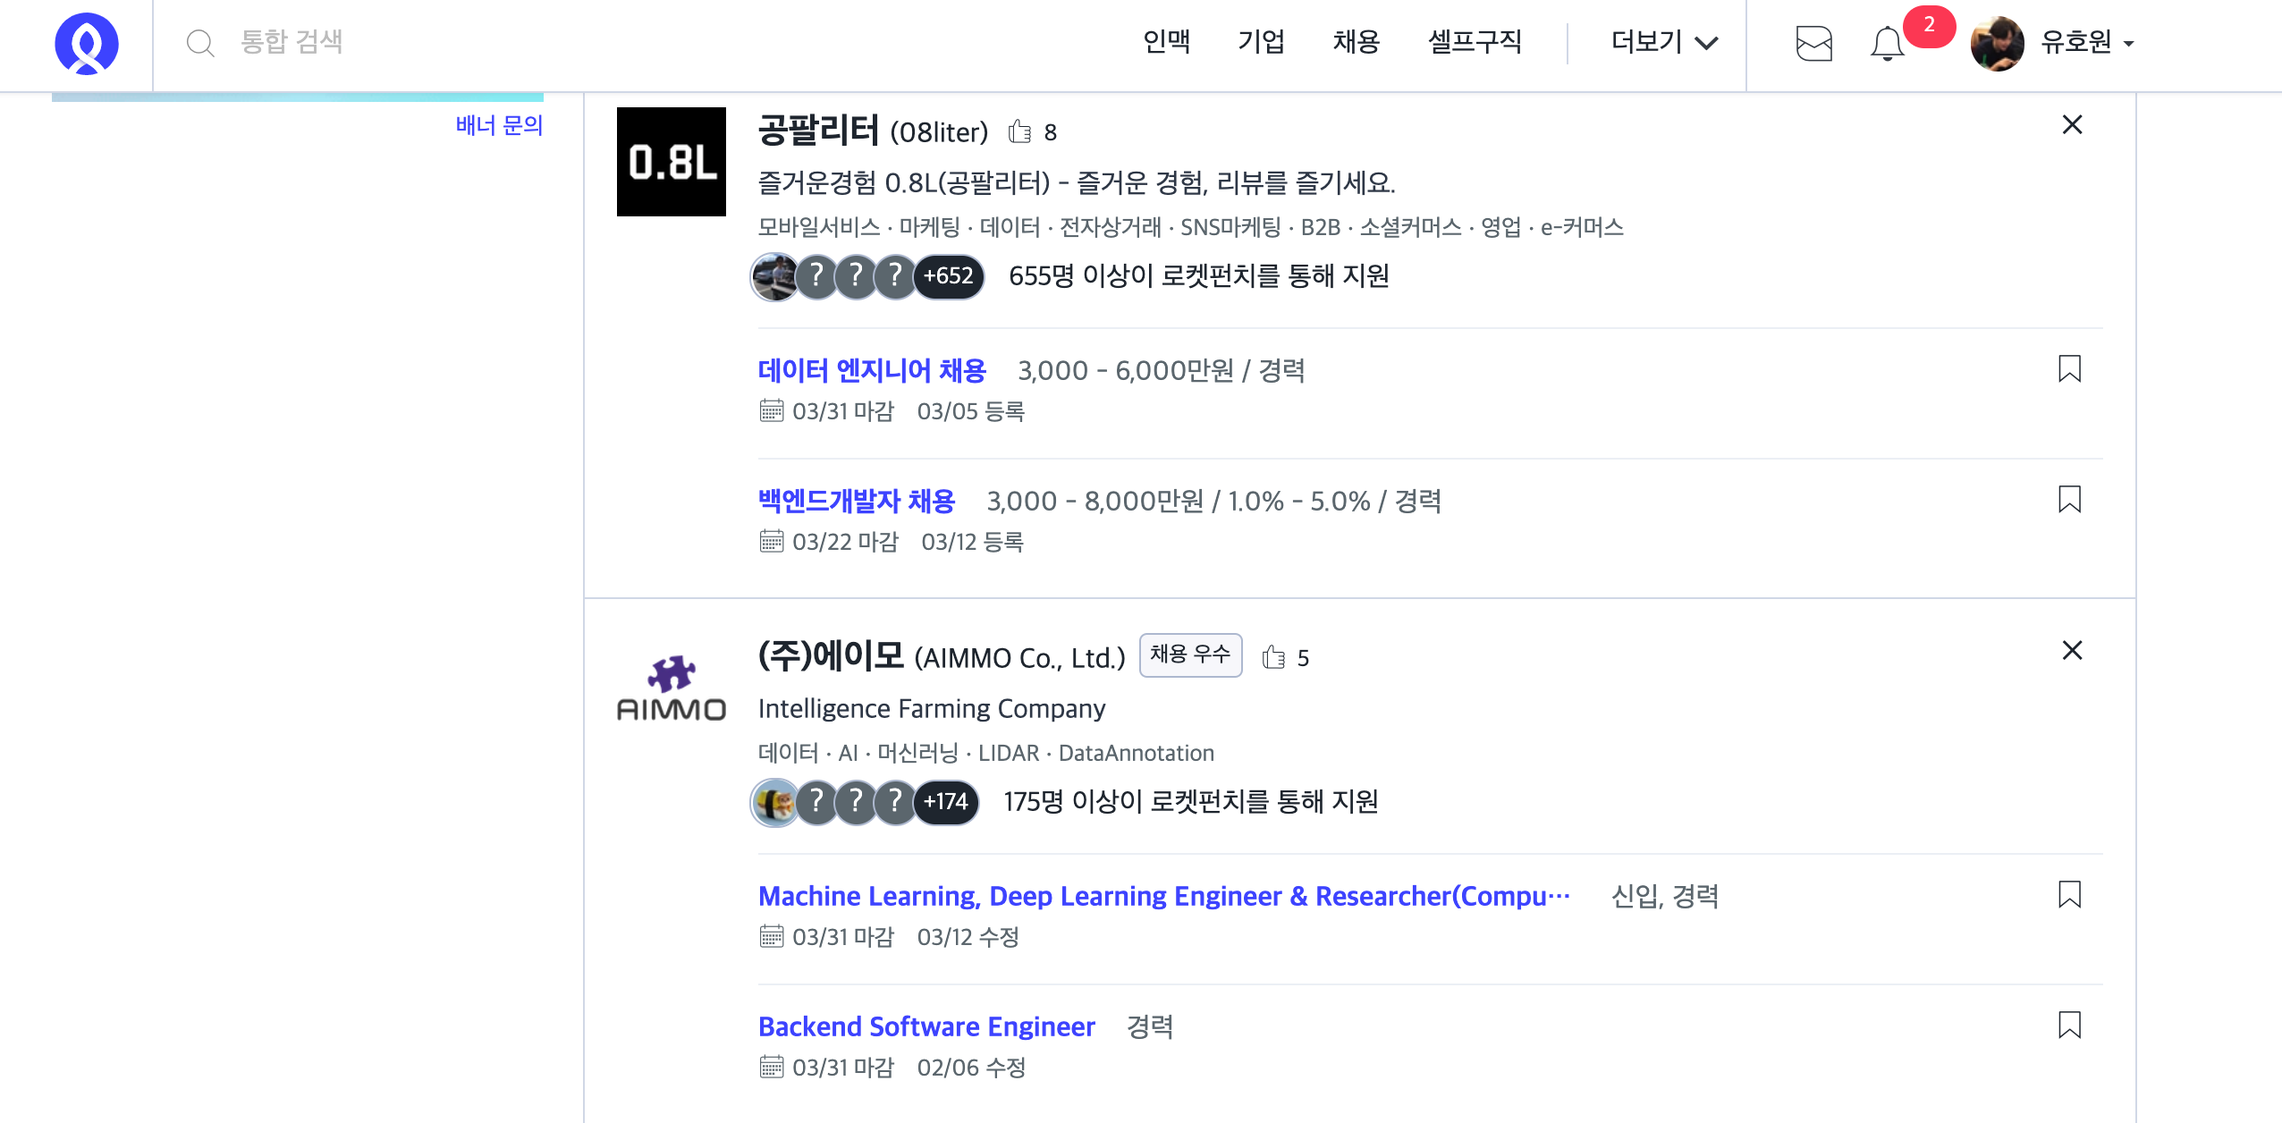
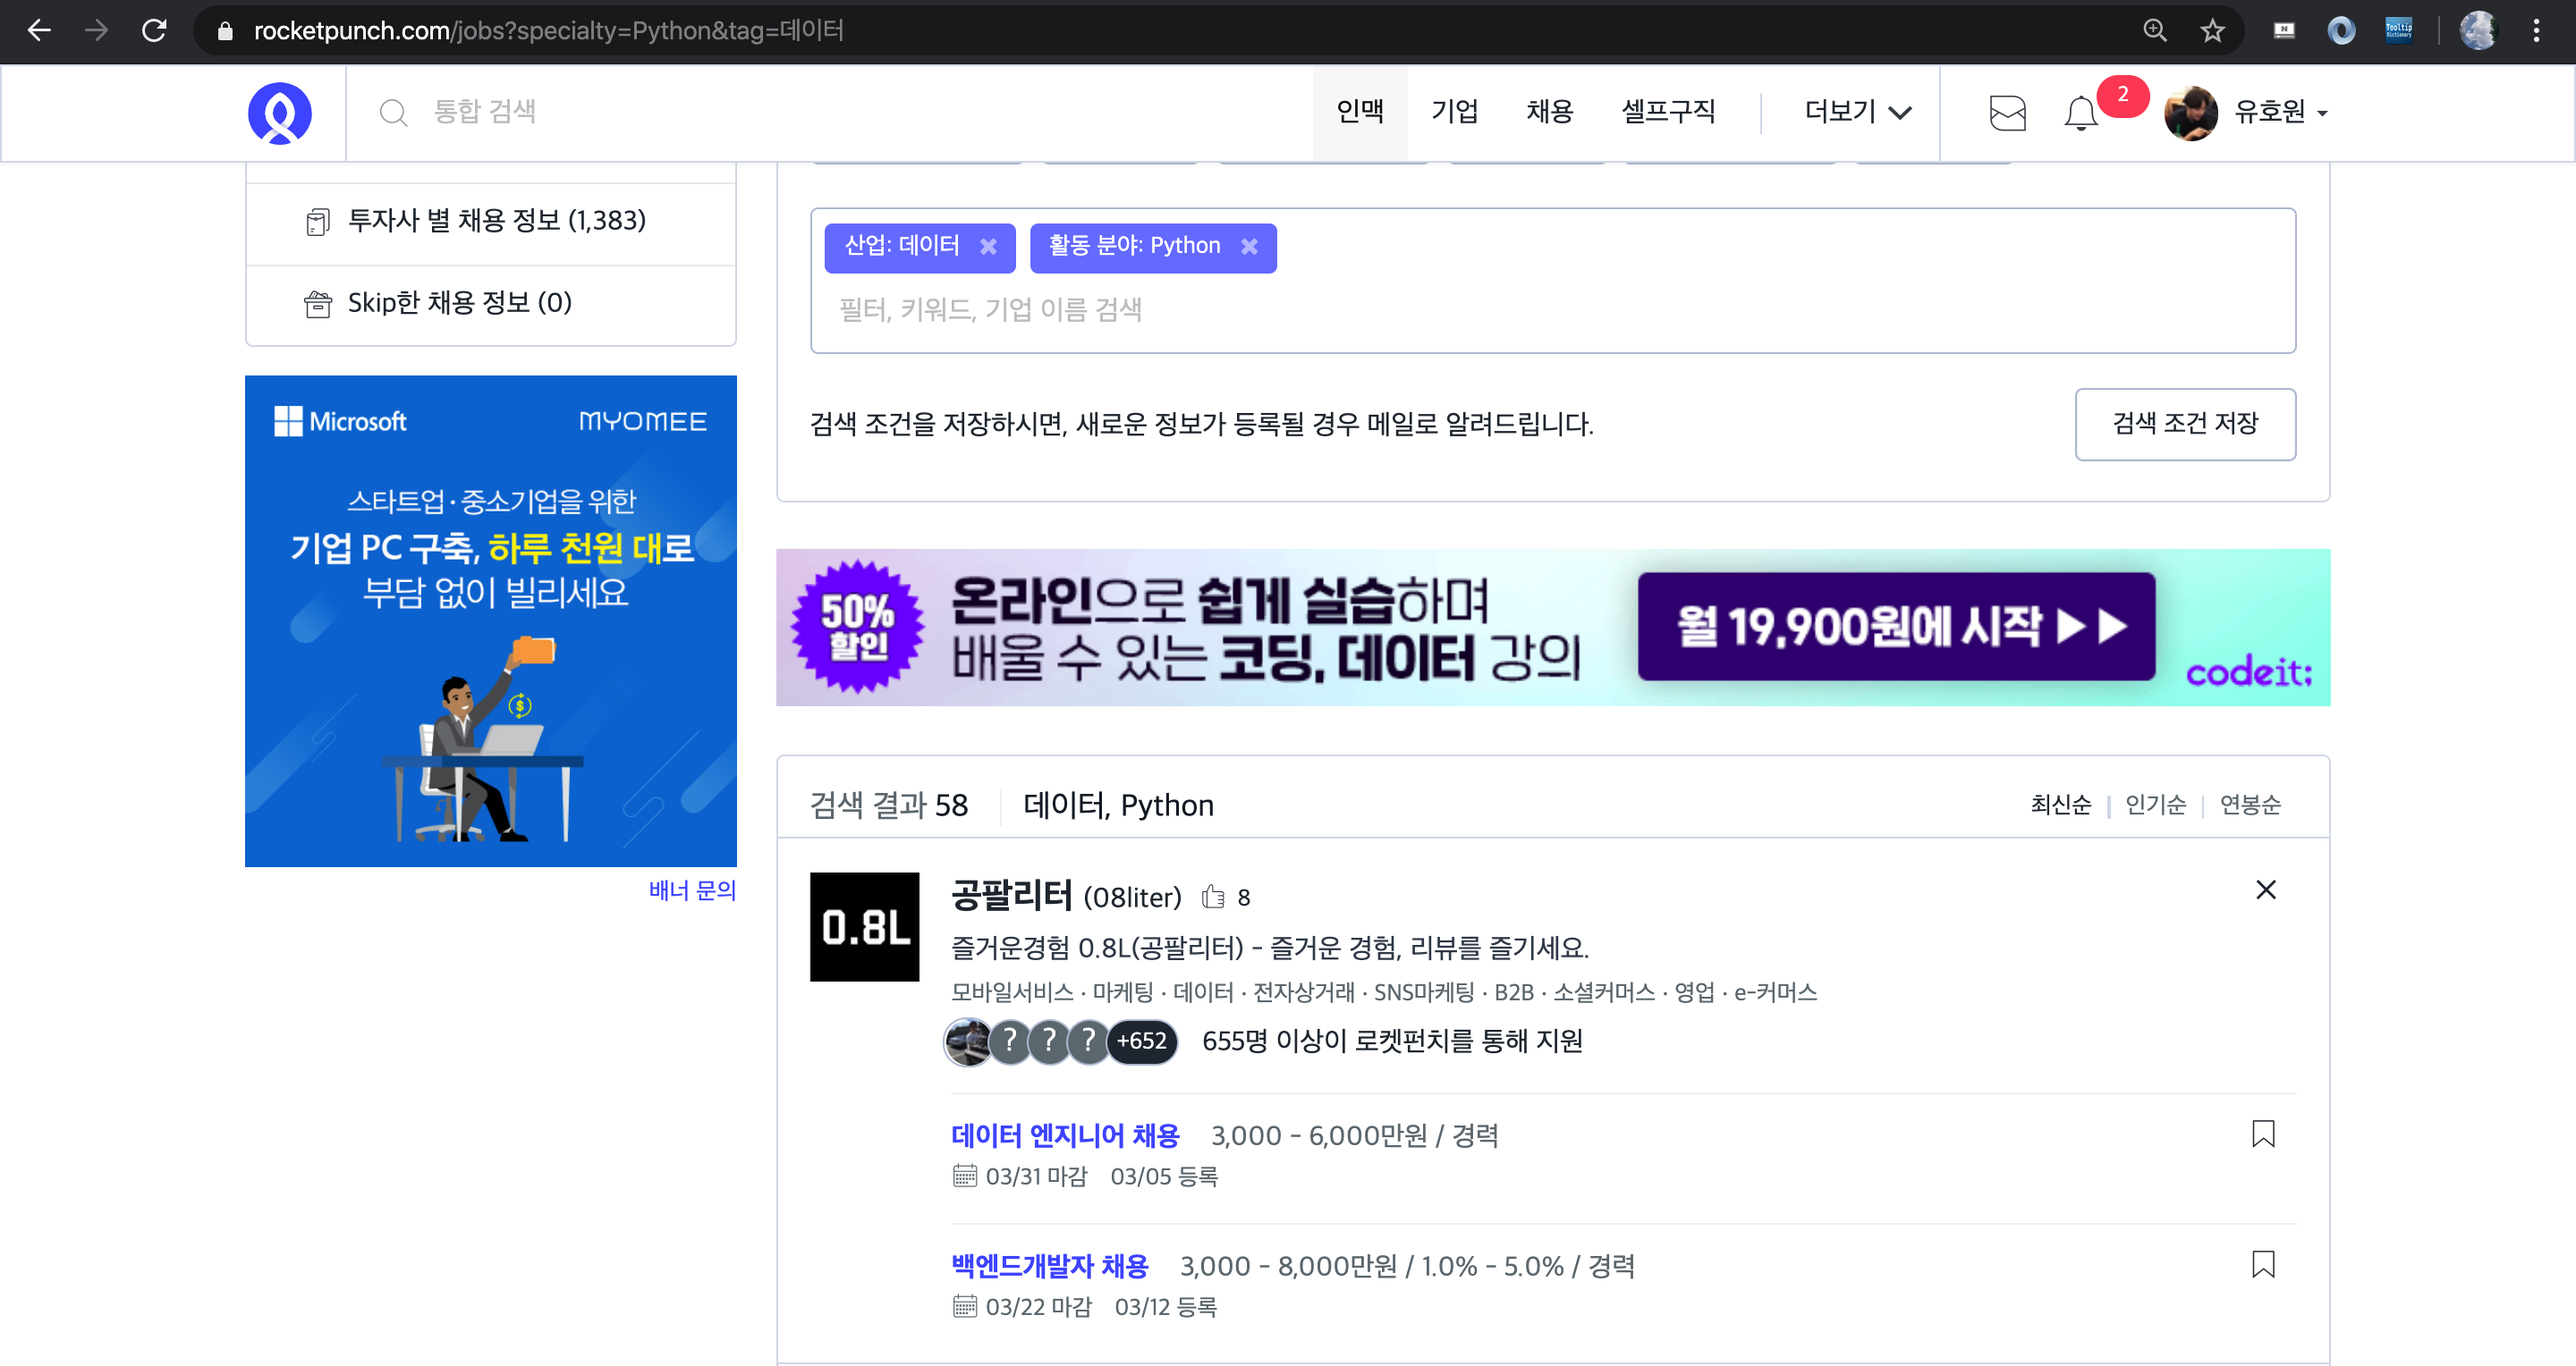
crawling project update : 2 spiders

diff --git a/job_hunter/job_hunter/spiders/spider.py b/job_hunter/job_hunter/spiders/spider.py
@@ -11,30 +11,39 @@ class Spider(scrapy.Spider):
     allow_domain = ["https://www.jobkorea.co.kr/"]
     start_urls = []
    
+    # 아규먼트를 받을수 있게 지정해 줬습니다.
+    # 잡코리아는 언어 설정, 특기등 설정값을 디테일하게 주지 못합니다.
+    # careerType =1 은 신입을 말합니다. 추후 경력직 까지 크롤링 할떄 생성자 함수에 아규먼트를 추가할수 있습니다.
     def __init__(self, serach_keyword="데이터 분석", page=1, **kwargs):
     
-        self.start_urls = ["http://www.jobkorea.co.kr/Search/?stext={}&careerType=1&tabType=recruit&Page_No={}".format(serach_keyword,page)]
-    
+        self.start_urls = ["https://www.jobkorea.co.kr/Search/?stext={}&careerType=1&tabType=recruit&Page_No={}".format(serach_keyword,page)]    
+        
         super().__init__(**kwargs)
-            
+
+    
     def parse(self, response):
+        # 크롤링시 잡코리아에서 ip를 차단해 버리기 떄문에 딜레이를 걸어줬습니다.
         time.sleep(5)
         total_pages = int(response.xpath('//*[@id="content"]/div/div/div[1]/div/div[2]/div[2]/div/div[3]/ul/li[2]/span/text()')[0].extract())
-        for page in range(1, total_pages +1):
+        # 나중에 사람인이나 다른 사이트들 한 spider에서 크롤링 하려면 어떻게 할지 고민
+        for page in range(1, total_pages +1):                        
+            # 문자열의 마지막 글자만 잡아서 total_pages의 숫자만큼 url을 만들고 yield로 get_content()함수에 던져줍니다.
             page_url = self.start_urls[0][:-1]+"{}".format(page)
-            yield scrapy.Request(page_url,callback=self.get_content)
+            yield scrapy.Request(page_url, callback=self.get_content)
         
-    # 잡코리아 크롤링 보안코드 입력하라 그러고 ip 막겠다고 하는데 time sleep 걸면서 계속 시도해 봐도 될지?
+    
    
     def get_content(self, response):
+    # 크롤링시 잡코리아에서 ip를 차단해 버리기 떄문에 딜레이를 걸어줬습니다.
         time.sleep(5)
         links = response.xpath('//*[@id="content"]/div/div/div[1]/div/div[2]/div[2]/div/div[1]/ul/li/div/div[2]/a/@href').extract()
+        # 이과정에서 각 페이지 별로 가지고 있는 구인 공고들의 링크를 만들어 yield로 get_details()함수에 던져줍니다.
         links = ["http://www.jobkorea.co.kr/" + link for link in links]   
         for link in links:
-            yield scrapy.Request(link,callback=self.get_details)
+            yield scrapy.Request(link, callback=self.get_details)
       
       
-    def get_details(self,response):
+    def get_details(self, response):
         time.sleep(5)
         item = JobHunterItem()   
         
@@ -44,27 +53,28 @@ class Spider(scrapy.Spider):
         except:
             item["deadline"] = "수시채용"
             
+        item['link'] = response.url
+        
+        item["position"] = response.xpath('//*[@id="container"]/section/div/article/div[1]/h3/text()')[1].extract().strip()
+        
+        item['location'] = ",".join(response.xpath('//*[@id="container"]/section/div/article/div[2]/div/dl/dd/a/text()').extract())
+        
+        item["keyword"] = response.xpath('//*[@id="artKeywordSearch"]/ul/li/button/text()').extract()[:-1]
+        
+        
+        # 구인 공고 링크 안으로 들어가 더 자세한 정보를 가져옵니다.
         url = "http://www.jobkorea.co.kr" + response.xpath('//*/article[contains(@class, "artReadCoInfo") and contains(@class, "divReadBx")]/div/div/p/a/@href')[0].extract()
         
         req = requests.get(url)
         response_detail_page = TextResponse(req.url,body=req.text,encoding='utf-8')
         
         item["business"] = response_detail_page.xpath('//*[@id="company-body"]/div[1]/div[1]/div/div/div[9]/div[2]/div/div/text()')[0].extract()
-        
-        item['link'] = response.url
-        
-        item["position"] = response.xpath('//*[@id="container"]/section/div/article/div[1]/h3/text()')[1].extract().strip()
-
+           
         try:
             item["salary_condition"] = response_detail_page.xpath('//*[@id="company-body"]/div[1]/div[1]/div/div/div[8]/div[2]/div/div/div/div/text()')[0].extract()
         except:
             item["salary_condition"] = "회사 내규에 따름 - 연봉 협의"
         
-        item['location'] = ",".join(response.xpath('//*[@id="container"]/section/div/article/div[2]/div/dl/dd/a/text()').extract())
-        
-        item["keyword"] = response.xpath('//*[@id="artKeywordSearch"]/ul/li/button/text()').extract()[:-1]
         
         yield item
  
-
-

diff --git a/README.md b/README.md
@@ -17,27 +17,14 @@
   - 2. **Scrapy** 프레임워크에 실습한 내용을 적용
   - 3. 서버에서 실행될수 있도록 작업(mongDB에 데이터 저장, crontab을 이용한 크롤링 주기 설정 등)
 
-### 사이트 특징
-- **로켓펀치** 
-  ![ex_screenshot](./img/rocketpunch.png)
-
-  **HTML 코드**를 json형태안의 "string" 데이터 타입으로 response 함
-  ![ex_screenshot](./img/rp_json.png)
-
-  때문에 Spider 안에서 
-
-- **잡코리아**
-  ![ex_screenshot](./img/jobkorea.png)
-  
-
-- **사람인** 
-
-: 현재 진행중
-
 
 #### 데이터셋 개요
 
 ```python
+import scrapy
+
+class JobHunterItem(scrapy.Item):
+
     company_name = scrapy.Field() # 회사명
     business = scrapy.Field() # 사업분야
     position = scrapy.Field() # 직무
@@ -46,7 +33,190 @@
     deadline = scrapy.Field() # 기한
     keyword = scrapy.Field() # 직무관련 키워드
     location = scrapy.Field() # 회사(사무실) 위치
+    
 ``` 
+
+
+### 사이트 특징
+- **로켓펀치** 
+  ![ex_screenshot](./img/rocketpunch.png)
+
+  **HTML 코드**를 json형태안의 "string" 데이터 타입으로 response 함
+  
+  ![ex_screenshot](./img/rocketpunch2.png)
+
+  - **Spider.py**
+```python
+  
+import scrapy
+import requests
+from bs4 import BeautifulSoup
+import json
+
+from job_hunter.items import JobHunterItem
+
+class RocketpunchSpider(scrapy.Spider):
+
+    # 크롤러 이름 설정
+    name = "Rocketpunch"
+    allowed_domains = ['https://www.rocketpunch.com']
+    
+    # 생성자 함수에서 구인 목록의 전체 페이지수를 구하고, start_url에 담았습니다.
+    # 아규먼트를 받을수 있게 지정해 줬습니다.
+    
+    def __init__(self, specialty="python", tag="데이터", page=1, **kwargs):
+        self.start_urls = []   
+        url_for_get_page = "https://www.rocketpunch.com/api/jobs/template?q=&specialty={}&tag={}&page={}".format(specialty, tag, page)    
+        response = requests.get(url_for_get_page)         
+        
+        # json형태 변환 후 html코드가 담겨있는 str데이터 선택
+        data = response.json()['data']['template']        
+        
+        # str데이터를 html로 파싱
+        dom = BeautifulSoup(data, "html.parser")
+        
+        # select함수를 이용해 아규먼트에서 받은 "python"과 "데이터"에 관한 구인 목록의 총 페이지 수를 계산하고 
+        # 총 페이지 갯수만큼 요청을 하기위해 self.start_urls 변수에 요청 url을 담아줬습니다.
+        total_pages = dom.select("div.ui.pagination.menu > div.tablet.computer.large.screen.widescreen.only > a")[-1].text
+  
+        for page in range(1, int(total_pages)+1):
+            url = "https://www.rocketpunch.com/api/jobs/template?q=&specialty={}&tag={}&page={}".format(specialty, tag, page)
+            self.start_urls.append(url)
+        
+        super().__init__(**kwargs)
+        
+    
+    
+       # start_urls가 리스트 형태로 각 상세페이지의 주소들을 가지고 있습니다.
+    
+    
+    def parse(self, response):
+        # response 받아온 데이터를 json으로 변환 후
+        json_response = json.loads(response.body)
+        # html 코드가 str형태로 들어있는 value를 찾아 BeautifulSoup으로 파싱합니다.
+        data = json_response['data']['template']       
+        dom = BeautifulSoup(data, "html.parser")
+        
+        # 아래에 중복되는 코드를 변수로 뺏습니다.
+        root = dom.select('#company-list > div.company.item > div.content')
+        positions = dom.select('#company-list > div.company.item > div.content > div.company-jobs-detail')
+
+        for i in range(len(root)):
+            len_of_positions = len(positions[i].select('div:nth-child(1) > a.nowrap')) 
+            
+            for j in range(len_of_positions):
+                link = "https://www.rocketpunch.com" + positions[i].select('div:nth-child(1) > a.nowrap')[j].get('href') 
+                response = requests.get(link)
+                dom_for_skills = BeautifulSoup(response.text,"html.parser")    
+                
+                item = JobHunterItem()
+                item["company_name"] = root[i].select('div.company-name > a > h4 > strong')[0].text
+                item["business"] = root[i].select('div.description')[0].text.strip('\xa0')
+                item["position"] = positions[i].select('div:nth-child(1) > a.nowrap')[j].text
+                item["link"] = link
+                item["salary_condition"] = positions[i].select('div.job-detail > div:nth-child(1) > span')[j].text
+                item["deadline"] = positions[i].select('div.job-detail > div.job-dates > span:nth-child(1)')[j].text.strip(' \n').replace("/",".")
+                item["keyword"] = ", ".join([a.text for a in dom_for_skills.select('div .job-specialties > a ')])
+                # <br\>로 나누어져 있기 때문에, 처음부터 끝까지 1칸씩 간격을 두고 찾아내면 지역이 몇개건 상관없이 가져올수 있음
+                item['location'] = ", ".join(dom_for_skills.select('#wrap > div.four.wide.job-infoset.column > div > div:nth-child(3) > div > div:nth-child(2) > div.content')[0].contents[::2]).strip()
+                
+                yield item
+    
+   
+```
+
+- **잡코리아**
+  ![ex_screenshot](./img/jobkorea.png)
+  
+  - **spider.py**
+```python
+
+import scrapy
+import requests
+from scrapy.http import TextResponse
+import time
+
+from job_hunter.items import JobHunterItem
+
+
+class Spider(scrapy.Spider):
+    name = "JobkoreaCrawler"
+    allow_domain = ["https://www.jobkorea.co.kr/"]
+    start_urls = []
+   
+    # 아규먼트를 받을수 있게 지정해 줬습니다.
+    # 잡코리아는 파이썬등 언어 설정을 디테일하게 해주지 못합니다.
+    # careerType =1 은 신입을 말합니다. 추후 경력직 까지 크롤링 할떄 생성자 함수에 아규먼트를 추가할수 있습니다.
+    def __init__(self, serach_keyword="데이터 분석", page=1, **kwargs):
+    
+        self.start_urls = ["http://www.jobkorea.co.kr/Search/?stext={}&careerType=1&tabType=recruit&Page_No={}".format(serach_keyword,page)]    
+        
+        super().__init__(**kwargs)
+
+    
+    def parse(self, response):
+        # 크롤링시 잡코리아에서 ip를 차단해 버리기 떄문에 딜레이를 걸어줬습니다.
+        time.sleep(5)
+        total_pages = int(response.xpath('//*[@id="content"]/div/div/div[1]/div/div[2]/div[2]/div/div[3]/ul/li[2]/span/text()')[0].extract())
+        # 나중에 사람인이나 다른 사이트들 한 spider에서 크롤링 하려면 어떻게 할지 고민
+        for page in range(1, total_pages +1):                        
+            # 문자열의 마지막 글자만 잡아서 total_pages의 숫자만큼 url을 만들고 yield로 get_content()함수에 던져줍니다.
+            page_url = self.start_urls[0][:-1]+"{}".format(page)
+            yield scrapy.Request(page_url, callback=self.get_content)
+        
+    
+   
+    def get_content(self, response):
+    # 크롤링시 잡코리아에서 ip를 차단해 버리기 떄문에 딜레이를 걸어줬습니다.
+        time.sleep(5)
+        links = response.xpath('//*[@id="content"]/div/div/div[1]/div/div[2]/div[2]/div/div[1]/ul/li/div/div[2]/a/@href').extract()
+        # 이과정에서 각 페이지 별로 가지고 있는 구인 공고들의 링크를 만들어 yield로 get_details()함수에 던져줍니다.
+        links = ["http://www.jobkorea.co.kr/" + link for link in links]   
+        for link in links:
+            yield scrapy.Request(link, callback=self.get_details)
+      
+      
+    def get_details(self, response):
+        time.sleep(5)
+        item = JobHunterItem()   
+        
+        item["company_name"] = response.xpath('//*[@id="container"]/section/div/article/div[1]/h3/span/text()')[0].extract().strip()
+        try:
+            item["deadline"] = response.xpath('//*[@id="tab02"]/div/article[1]/div/dl[2]/dd[2]/span/text()')[0].extract()[5:] + " 마감"
+        except:
+            item["deadline"] = "수시채용"
+            
+        item['link'] = response.url
+        
+        item["position"] = response.xpath('//*[@id="container"]/section/div/article/div[1]/h3/text()')[1].extract().strip()
+        
+        item['location'] = ",".join(response.xpath('//*[@id="container"]/section/div/article/div[2]/div/dl/dd/a/text()').extract())
+        
+        item["keyword"] = response.xpath('//*[@id="artKeywordSearch"]/ul/li/button/text()').extract()[:-1]
+        
+        
+        # 구인 공고 링크 안으로 들어가 더 자세한 정보를 가져옵니다.
+        url = "http://www.jobkorea.co.kr" + response.xpath('//*/article[contains(@class, "artReadCoInfo") and contains(@class, "divReadBx")]/div/div/p/a/@href')[0].extract()
+        
+        req = requests.get(url)
+        response_detail_page = TextResponse(req.url,body=req.text,encoding='utf-8')
+        
+        item["business"] = response_detail_page.xpath('//*[@id="company-body"]/div[1]/div[1]/div/div/div[9]/div[2]/div/div/text()')[0].extract()
+           
+        try:
+            item["salary_condition"] = response_detail_page.xpath('//*[@id="company-body"]/div[1]/div[1]/div/div/div[8]/div[2]/div/div/div/div/text()')[0].extract()
+        except:
+            item["salary_condition"] = "회사 내규에 따름 - 연봉 협의"
+        
+        
+        yield item
+ 
+
+```
+  
+
+- **사람인** 
+  - 웹페이지가 잡코리아와 유사한 형태
 
 
 #### 진행중
@@ -57,12 +227,8 @@
 
 #### 해결 과제
   - 서버에서 주기적으로 실행될수 있도록 작성
-  - 서버에 requerments.txt 작성
+  - requerments.txt 작성
   - 데이터의 저장
     - mongDB 데이터 베이스에 크롤링 한 데이터를 저장
-
-
-#### 프로젝트 회고
-  - 프로젝트하면서 느낀점
-  - 결론
-  - 추후 연구 및 개선사항
+  - 슬랙 메시지
+    - 구인공고를 크롤링 할떄마다 새로 업데이트된 사항이 있으면 position과 link를 슬랙 메시지로 던져주는 작업
